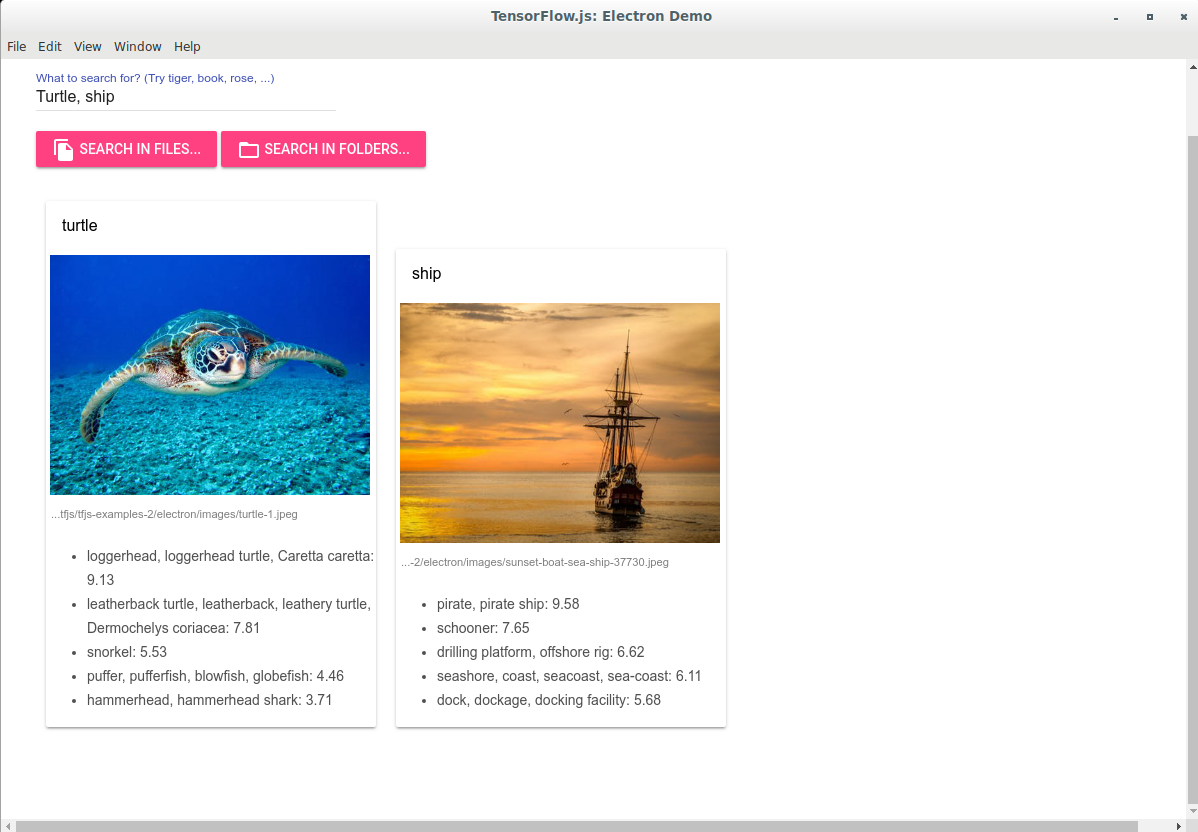
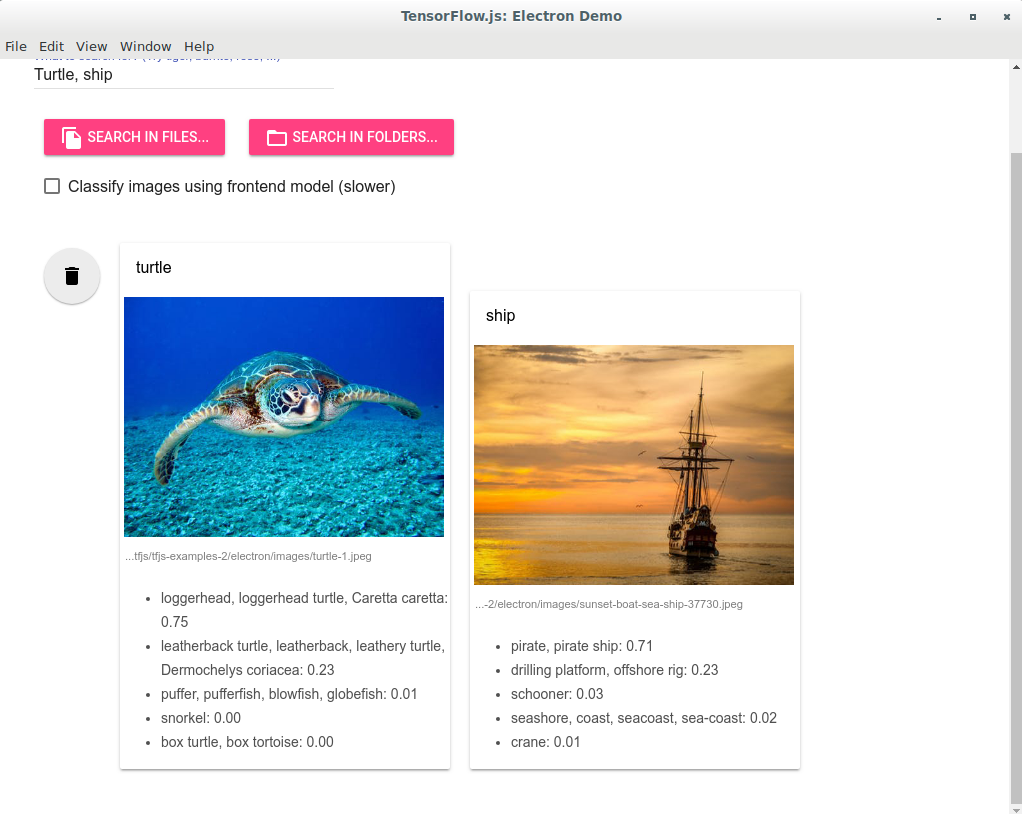
Address comments

diff --git a/electron/image_classifier.js b/electron/image_classifier.js
@@ -22,6 +22,13 @@ import {IMAGENET_CLASSES} from './imagenet_classes';
 const MOBILENET_MODEL_URL =
     'https://storage.googleapis.com/tfjs-models/tfjs/mobilenet_v1_1.0_224/model.json'
 
+/**
+ * A classifier for images.
+ *
+ * It uses an underlying TensorFlow.js convolutional neural network
+ * to label a batch of input images. The labels are from the ImageNet
+ * dataset and can be seen in `./imagenet_classes.js`.
+ */
 export class ImageClassifier {
   constructor() {
     this.model = null;
@@ -128,6 +135,12 @@ export class ImageClassifier {
  * Search for target words in an array of class names and corresponding
  * probabilities.
  *
+ * This search is necessary because the class names output by the
+ * TensorFlow.js model are not isolated English words, instead they long
+ * phrases such as "tiger shark, Galeocerdo cuvieri". We need to break
+ * these labels into words and match them against the target words
+ * provided by the app's user (e.g., "shark").
+ *
  * @param {Array<{className: string, prob: number}>} classNamesAndProbs
  *   An array of `N` classification results, each of which is an object
  *   mapping a class name (`className`) to a probability score (`prob`).
@@ -146,10 +159,10 @@ export function searchForKeywords(classNamesAndProbs, filePaths, targetWords) {
     const namesAndProbs = classNamesAndProbs[i];
     let matchWord = null;
     for (const nameAndProb of namesAndProbs) {
+      const classTokens = nameAndProb.className.toLowerCase().trim()
+          .replace(/[,\/]/g, ' ')
+          .split(' ').filter(x => x.length > 0);
       for (const word of targetWords) {
-        const classTokens = nameAndProb.className.toLowerCase().trim()
-            .replace(/[,\/]/g, ' ')
-            .split(' ').filter(x => x.length > 0);
         if (classTokens.indexOf(word) !== -1) {
           matchWord = word;
           break;

diff --git a/electron/renderer.js b/electron/renderer.js
@@ -242,9 +242,11 @@ function createFoundCard(rootDiv, foundItem) {
   const ul = document.createElement('ul');
   for (const classNameAndProb of foundItem.topClasses) {
     const li = document.createElement('li');
-    li.textContent =
-        `${classNameAndProb.className}: ${classNameAndProb.prob.toFixed(2)}`;
-    ul.appendChild(li);
+    if (classNameAndProb.prob >= 0.001) {
+      li.textContent =
+          `${classNameAndProb.className}: ${classNameAndProb.prob.toFixed(3)}`;
+      ul.appendChild(li);
+    }
   }
   topKDiv.appendChild(ul);
   cardDiv.appendChild(topKDiv);

diff --git a/electron/image_utils.js b/electron/image_utils.js
@@ -98,6 +98,7 @@ export function findImagesFromDirectoriesRecursive(dirPath) {
   for (const item of items) {
     const fullPath = path.join(dirPath, item);
     if (fs.lstatSync(fullPath).isDirectory()) {
+      // NOTE: This doesn't follow symlinks.
       try {
         imageFilePaths.push(...findImagesFromDirectoriesRecursive(fullPath));
       } catch (err) {}

diff --git a/electron/main.js b/electron/main.js
@@ -45,7 +45,7 @@ app.on('ready', () => {
 });
 
 app.on('window-all-closed', () => {
-  if (process.platfor !== 'darwin') {
+  if (process.platform !== 'darwin') {
     app.quit();
   }
 });

diff --git a/electron/README.md b/electron/README.md
@@ -1,6 +1,6 @@
 # Deploying TensorFlow.js Models in Electron-based Desktop Apps
 
-This is a simple example that showcases how to use TensorFlow.js
+This is an example that showcases how to use TensorFlow.js
 in cross-platform desktop apps written with
 [electron](https://electronjs.org/). In particular, it uses
 a MobileNetV2 model running in TensorFlow.js to enable the user
